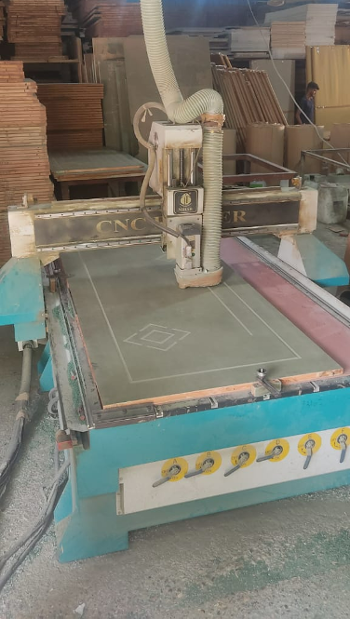
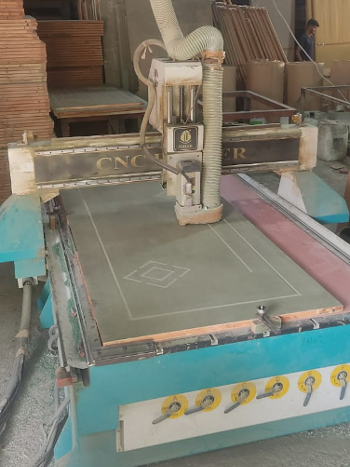
updated the pictures and alignment

diff --git a/service.html b/service.html
@@ -304,7 +304,7 @@
             >
               <a href="./img/single-head-cnc-3-axis-router.jpg" target="_blank">
                 <img
-                  class="h-100 w-100"
+                  class="h-100 w-100 m-2"
                   src="img/single-head-cnc-3-axis-router-1.png"
                   alt="Single head cnc 3 axis router"
                 />
@@ -317,26 +317,10 @@
     <!-- Features End -->
 
     <!-- Testimonial Start -->
-    <div class="container-fluid">
+    <div class="container-fluid  bg-white">
       <div class="container">
         <div class="row">
-          <div class="col-md-5">
-            <a
-              href="./img/3axis-cnc-router-with-5-axis-delta-controller.jpg"
-              target="_blank"
-            >
-              <div
-                class="d-flex flex-column align-items-center justify-content-center h-100 w-100 overflow-hidden"
-              >
-                <img
-                  class="h-100 w-100 overflow-hidden"
-                  src="img/cnc-double-head-router-2.jpg"
-                  alt=""
-                />
-              </div>
-            </a>
-          </div>
-          <div class="col-md-7 py-5 pl-md-5">
+          <div class="col-lg-7 mt-5 py-5 pr-lg-5">
             <h6
               class="text-primary font-weight-normal text-uppercase mb-3 pt-5"
             >
@@ -377,6 +361,22 @@
               >View More</a
             >
           </div>
+          <div class="col-md-5">
+            <a
+              href="./img/3axis-cnc-router-with-5-axis-delta-controller.jpg"
+              target="_blank"
+            >
+              <div
+                class="d-flex flex-column align-items-center justify-content-center h-100 w-100 overflow-hidden"
+              >
+                <img
+                  class="h-100 w-100 m-2 overflow-hidden"
+                  src="img/cnc-double-head-router-2.jpg"
+                  alt=""
+                />
+              </div>
+            </a>
+          </div>
         </div>
       </div>
     </div>
@@ -388,7 +388,7 @@
         <div class="row">
           <div class="col-lg-7 mt-5 py-5 pr-lg-5">
             <h6 class="text-primary font-weight-normal text-uppercase mb-3">
-                Hot Press Machine
+              Hot Press Machine
             </h6>
             <h1 class="mb-4 section-title">
               Vacuum Membrane Hot Press Machine
@@ -450,7 +450,7 @@
                 class="d-flex flex-column align-items-center justify-content-center h-100 w-100 overflow-hidden"
               >
                 <img
-                  class="h-100 w-100"
+                  class="h-100 w-100 m-2"
                   src="img/membrane-hot-press.jpg"
                   alt=""
                 />
@@ -466,17 +466,6 @@
     <div class="container-fluid">
       <div class="container">
         <div class="row">
-          <div class="col-md-5">
-            <div
-              class="d-flex flex-column align-items-center justify-content-center h-100 w-100 overflow-hidden"
-            >
-              <img
-                class="h-100 w-100"
-                src="img/panel-saw-for-cutting.png"
-                alt=""
-              />
-            </div>
-          </div>
           <div class="col-md-7 py-5 pl-md-5">
             <h6
               class="text-primary font-weight-normal text-uppercase mb-3 pt-5"
@@ -485,32 +474,48 @@
             </h6>
             <h1 class="mb-4 section-title">Manual horizontal panel saw</h1>
             <div class="d-flex flex-column">
-                <p>The saw is fixed and the operator moves the panel with the mobile table. The panel is put in place manually.</p>
-              </div>
-              <ul class="list-inline">
-                <li>
-                  <h5>
-                    <i class="far fa-check-square text-primary mr-3"></i>Cutting
-                    bed - 96"x48"
-                  </h5>
-                </li>
-                <li>
-                  <h5>
-                    <i class="far fa-check-square text-primary mr-3"></i>Operated Manually
-                  </h5>
-                </li>
-                <li>
-                  <h5>
-                    <i class="far fa-check-square text-primary mr-3"></i>Very fast and efficient
-                  </h5>
-                </li>
-              </ul>
-              <a
-                href="img/3axis-cnc-router-with-5-axis-delta-controller.jpg"
-                target="_blank"
-                class="btn btn-primary mt-3 py-2 px-4"
-                >View More</a
-              >
+              <p>
+                The saw is fixed and the operator moves the panel with the
+                mobile table. The panel is put in place manually.
+              </p>
+            </div>
+            <ul class="list-inline">
+              <li>
+                <h5>
+                  <i class="far fa-check-square text-primary mr-3"></i>Cutting
+                  bed - 96"x48"
+                </h5>
+              </li>
+              <li>
+                <h5>
+                  <i class="far fa-check-square text-primary mr-3"></i>Operated
+                  Manually
+                </h5>
+              </li>
+              <li>
+                <h5>
+                  <i class="far fa-check-square text-primary mr-3"></i>Very fast
+                  and efficient
+                </h5>
+              </li>
+            </ul>
+            <a
+              href="img/3axis-cnc-router-with-5-axis-delta-controller.jpg"
+              target="_blank"
+              class="btn btn-primary mt-3 py-2 px-4"
+              >View More</a
+            >
+          </div>
+          <div class="col-md-5">
+            <div
+              class="d-flex flex-column align-items-center justify-content-center h-100 w-100 overflow-hidden"
+            >
+              <img
+                class="h-100 w-100 m-2"
+                src="img/panel-saw-for-cutting.png"
+                alt=""
+              />
+            </div>
           </div>
         </div>
       </div>
